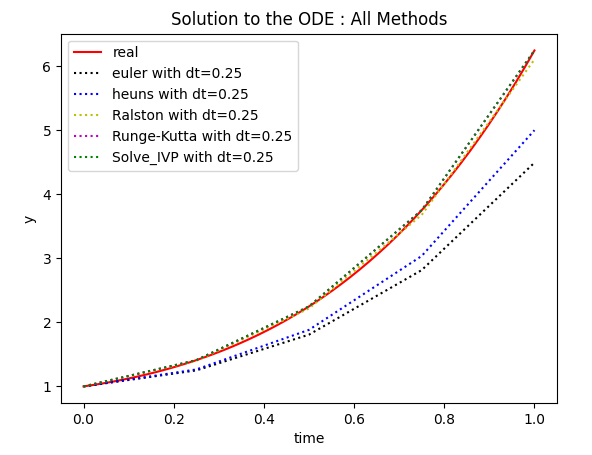
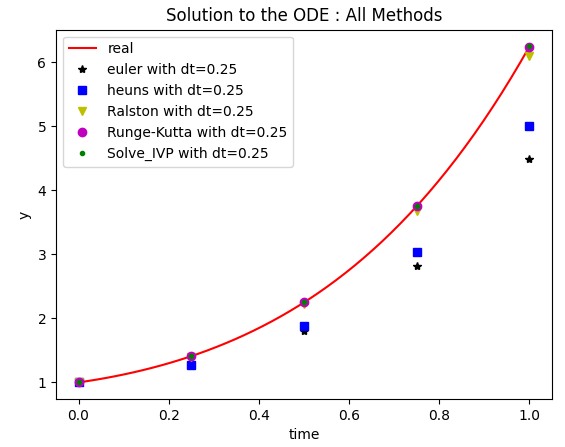
Ready for Submission

diff --git a/Assignments/Assignment 2/ODE/odes.py b/Assignments/Assignment 2/ODE/odes.py
@@ -141,11 +141,11 @@ print("\n")
 plt.figure()
 plt.title("Solution to the ODE : All Methods")
 plt.plot(tReal,yValsReal,'r-',label='real')
-plt.plot(t,yValsEuler,'k:',label=f'euler with dt={h}')
-plt.plot(t,yValsHeuns,'b:',label=f'heuns with dt={h}')
-plt.plot(t,yValsRalston,'y:',label=f'Ralston with dt={h}')
-plt.plot(t,yValsRK,'m:',label=f'Runge-Kutta with dt={h}')
-plt.plot(t,yValsIVP,'g:',label=f'Solve_IVP with dt={h}')
+plt.plot(t,yValsEuler,'k*',label=f'euler with dt={h}')
+plt.plot(t,yValsHeuns,'bs',label=f'heuns with dt={h}')
+plt.plot(t,yValsRalston,'yv',label=f'Ralston with dt={h}')
+plt.plot(t,yValsRK,'mo',label=f'Runge-Kutta with dt={h}')
+plt.plot(t,yValsIVP,'g.',label=f'Solve_IVP with dt={h}')
 plt.legend()
 plt.xlabel('time')
 plt.ylabel('y')

diff --git a/Assignments/Assignment 2/Q3/systems_question3.py b/Assignments/Assignment 2/Q3/systems_question3.py
@@ -1,3 +1,36 @@
+#
+# Gauss Siedel Method
+#
+
+# Initialize System
+b = [247, 248, 239]
+
+eq1 = [0.2425, 0, -0.9701]
+eq2 = [0, 0.2425, -0.9701]
+eq3 = [-0.2357, -0.2357, -0.9428]
+
+# Initialize Initial Values
+x1 = 10
+x2 = 10
+x3 = 10
+
+# Loop over 10 Times
+for i in range(10):
+    # Apply Gauss Siedel for each equation
+    x1 = (b[0] - eq1[1]*x2 - eq1[2]*x3)/eq1[0]
+    x2 = (b[1] - eq2[0]*x1 - eq2[2]*x3)/eq2[1]
+    x3 = (b[2] - eq3[0]*x1 - eq3[1]*x2)/eq3[2]
+
+print("\n")
+print(f"x1 : {x1}, x2 : {x2}, x3 : {x3}")
+print("\n")
+
+
+#
+# Brute Force Method
+#
+
+
 import numpy as np
 
 # Permutation Function, Generates all possible permutations
